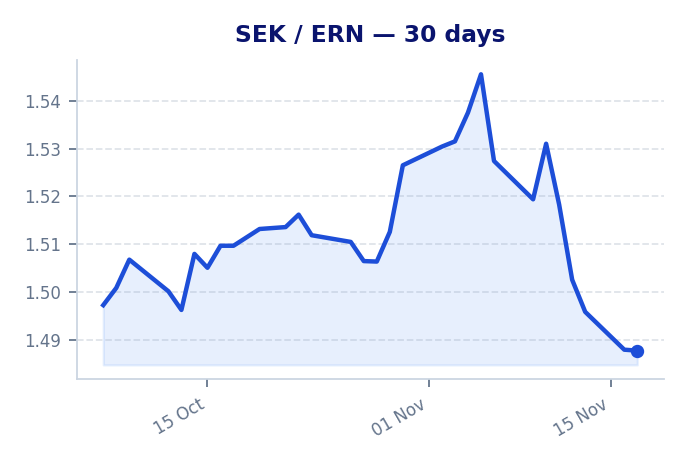
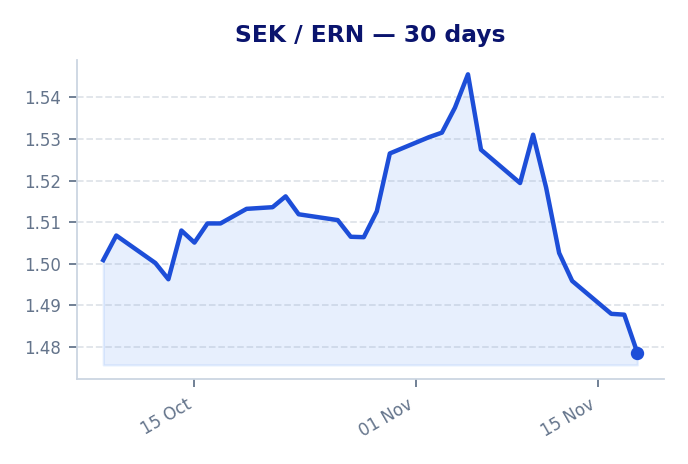
Add files via upload

diff --git a/index.html b/index.html
@@ -939,22 +939,22 @@ tr:hover {
 
             <div class="summary-item">
                 <div class="summary-label">SEK</div>
-                <div class="summary-value">1.4878</div>
+                <div class="summary-value">1.4787</div>
             </div>
 
             <div class="summary-item">
                 <div class="summary-label">NOK</div>
-                <div class="summary-value">1.5556</div>
+                <div class="summary-value">1.5552</div>
             </div>
 
             <div class="summary-item">
                 <div class="summary-label">DKK</div>
-                <div class="summary-value">2.2093</div>
+                <div class="summary-value">2.2039</div>
             </div>
 
             </div>
             <div class="mid-market-meta">
-                <div><span style="font-weight:600" data-i18n="last-updated">Last Updated:</span> 2026-11-17 06:59</div>
+                <div><span style="font-weight:600" data-i18n="last-updated">Last Updated:</span> 2026-11-18 07:05</div>
                 <div style="font-size:0.8rem" data-i18n="mid-market-note">Official mid-market rates collected daily. Actual transfer payout rates shown below.</div>
             </div>
         </div>
@@ -974,11 +974,11 @@ tr:hover {
             <div class="insight-boxes">
                 <div class="bestbox">
                     <span class="icon">🏆</span> 
-                    <span data-i18n="top-pick">Top Pick: <b>Ria</b> delivers <b>14 540 ERN</b></span>
+                    <span data-i18n="top-pick">Top Pick: <b>Ria</b> delivers <b>14 520 ERN</b></span>
                 </div>
                 <div class="gainbox">
                     <span class="icon">💡</span> 
-                    <span data-i18n="smart-move">Smart Move: You get <b>+310 ERN</b> more with <b>Ria</b> vs <b>Juba Express</b></span>
+                    <span data-i18n="smart-move">Smart Move: You get <b>+375 ERN</b> more with <b>Ria</b> vs <b>Juba Express</b></span>
                 </div>
             </div>
             
@@ -1001,47 +1001,47 @@ tr:hover {
 <td class="left">
     <div class="company-name">Ria</div>
 </td>
-<td class="right font-numeric">1.4540</td>
+<td class="right font-numeric">1.4520</td>
 <td class="right font-numeric">0,00</td>
-<td class="right nowrap font-numeric highlight-ern">14 540</td>
+<td class="right nowrap font-numeric highlight-ern">14 520</td>
 <td class="right nowrap font-numeric">-</td>
-<td class="right font-numeric markup-cell">2.27%</td>
+<td class="right font-numeric markup-good">1.81%</td>
 <td class="right font-numeric hide-mobile"><span class="badge best-badge">Best</span></td>
-</tr>
-
-<tr class="">
-<td class="left">
-    <div class="company-name">Remitly</div>
-</td>
-<td class="right font-numeric">1.4485</td>
-<td class="right font-numeric">0,00</td>
-<td class="right nowrap font-numeric highlight-ern">14 484</td>
-<td class="right nowrap font-numeric"><span class="loss-text">-55 ERN</span></td>
-<td class="right font-numeric markup-cell">2.64%</td>
-<td class="right font-numeric hide-mobile"><span class="badge rank-badge">#2</span></td>
 </tr>
 
 <tr class="">
 <td class="left">
     <div class="company-name">Western Union</div>
 </td>
-<td class="right font-numeric">1.4458</td>
+<td class="right font-numeric">1.4442</td>
 <td class="right font-numeric">0,00</td>
-<td class="right nowrap font-numeric highlight-ern">14 458</td>
-<td class="right nowrap font-numeric"><span class="loss-text">-82 ERN</span></td>
-<td class="right font-numeric markup-cell">2.82%</td>
-<td class="right font-numeric hide-mobile"><span class="badge rank-badge">#3</span></td>
+<td class="right nowrap font-numeric highlight-ern">14 442</td>
+<td class="right nowrap font-numeric"><span class="loss-text">-78 ERN</span></td>
+<td class="right font-numeric markup-cell">2.33%</td>
+<td class="right font-numeric hide-mobile"><span class="badge rank-badge">#2</span></td>
 </tr>
 
 <tr class="">
 <td class="left">
     <div class="company-name">Transfer Galaxy</div>
 </td>
-<td class="right font-numeric">1.4458</td>
+<td class="right font-numeric">1.4406</td>
 <td class="right font-numeric">0,00</td>
-<td class="right nowrap font-numeric highlight-ern">14 458</td>
-<td class="right nowrap font-numeric"><span class="loss-text">-82 ERN</span></td>
-<td class="right font-numeric markup-cell">2.82%</td>
+<td class="right nowrap font-numeric highlight-ern">14 406</td>
+<td class="right nowrap font-numeric"><span class="loss-text">-113 ERN</span></td>
+<td class="right font-numeric markup-cell">2.58%</td>
+<td class="right font-numeric hide-mobile"><span class="badge rank-badge">#3</span></td>
+</tr>
+
+<tr class="">
+<td class="left">
+    <div class="company-name">Remitly</div>
+</td>
+<td class="right font-numeric">1.4397</td>
+<td class="right font-numeric">0,00</td>
+<td class="right nowrap font-numeric highlight-ern">14 397</td>
+<td class="right nowrap font-numeric"><span class="loss-text">-123 ERN</span></td>
+<td class="right font-numeric markup-cell">2.64%</td>
 <td class="right font-numeric hide-mobile"><span class="badge rank-badge">#4</span></td>
 </tr>
 
@@ -1049,11 +1049,11 @@ tr:hover {
 <td class="left">
     <div class="company-name">Dahabshiil</div>
 </td>
-<td class="right font-numeric">1.4328</td>
+<td class="right font-numeric">1.4239</td>
 <td class="right font-numeric">0,00</td>
-<td class="right nowrap font-numeric highlight-ern">14 328</td>
-<td class="right nowrap font-numeric"><span class="loss-text">-212 ERN</span></td>
-<td class="right font-numeric markup-cell">3.70%</td>
+<td class="right nowrap font-numeric highlight-ern">14 239</td>
+<td class="right nowrap font-numeric"><span class="loss-text">-281 ERN</span></td>
+<td class="right font-numeric markup-cell">3.71%</td>
 <td class="right font-numeric hide-mobile"><span class="badge rank-badge">#5</span></td>
 </tr>
 
@@ -1061,11 +1061,11 @@ tr:hover {
 <td class="left">
     <div class="company-name">Juba Express</div>
 </td>
-<td class="right font-numeric">1.4230</td>
+<td class="right font-numeric">1.4144</td>
 <td class="right font-numeric">0,00</td>
-<td class="right nowrap font-numeric highlight-ern">14 230</td>
-<td class="right nowrap font-numeric"><span class="loss-text">-310 ERN</span></td>
-<td class="right font-numeric markup-cell">4.36%</td>
+<td class="right nowrap font-numeric highlight-ern">14 144</td>
+<td class="right nowrap font-numeric"><span class="loss-text">-375 ERN</span></td>
+<td class="right font-numeric markup-cell">4.35%</td>
 <td class="right font-numeric hide-mobile"><span class="badge rank-badge">#6</span></td>
 </tr>
 
@@ -1087,11 +1087,11 @@ tr:hover {
             <div class="insight-boxes">
                 <div class="bestbox">
                     <span class="icon">🏆</span> 
-                    <span data-i18n="top-pick">Top Pick: <b>Ria Money Transfer</b> delivers <b>15 250 ERN</b></span>
+                    <span data-i18n="top-pick">Top Pick: <b>Transfer Galaxy</b> delivers <b>15 158 ERN</b></span>
                 </div>
                 <div class="gainbox">
                     <span class="icon">💡</span> 
-                    <span data-i18n="smart-move">Smart Move: You get <b>+738 ERN</b> more with <b>Ria Money Transfer</b> vs <b>Dahabshiil</b></span>
+                    <span data-i18n="smart-move">Smart Move: You get <b>+644 ERN</b> more with <b>Transfer Galaxy</b> vs <b>Dahabshiil</b></span>
                 </div>
             </div>
             
@@ -1112,25 +1112,25 @@ tr:hover {
                         
 <tr class="best-row">
 <td class="left">
-    <div class="company-name">Ria Money Transfer</div>
+    <div class="company-name">Transfer Galaxy</div>
 </td>
-<td class="right font-numeric">1.5250</td>
+<td class="right font-numeric">1.5158</td>
 <td class="right font-numeric">0,00</td>
-<td class="right nowrap font-numeric highlight-ern">15 250</td>
+<td class="right nowrap font-numeric highlight-ern">15 158</td>
 <td class="right nowrap font-numeric">-</td>
-<td class="right font-numeric markup-good">1.97%</td>
+<td class="right font-numeric markup-cell">2.53%</td>
 <td class="right font-numeric hide-mobile"><span class="badge best-badge">Best</span></td>
 </tr>
 
 <tr class="">
 <td class="left">
-    <div class="company-name">Transfer Galaxy</div>
+    <div class="company-name">Ria Money Transfer</div>
 </td>
-<td class="right font-numeric">1.5123</td>
+<td class="right font-numeric">1.5110</td>
 <td class="right font-numeric">0,00</td>
-<td class="right nowrap font-numeric highlight-ern">15 123</td>
-<td class="right nowrap font-numeric"><span class="loss-text">-127 ERN</span></td>
-<td class="right font-numeric markup-cell">2.78%</td>
+<td class="right nowrap font-numeric highlight-ern">15 109</td>
+<td class="right nowrap font-numeric"><span class="loss-text">-48 ERN</span></td>
+<td class="right font-numeric markup-cell">2.84%</td>
 <td class="right font-numeric hide-mobile"><span class="badge rank-badge">#2</span></td>
 </tr>
 
@@ -1138,11 +1138,11 @@ tr:hover {
 <td class="left">
     <div class="company-name">Remitly</div>
 </td>
-<td class="right font-numeric">1.5076</td>
+<td class="right font-numeric">1.5084</td>
 <td class="right font-numeric">0,00</td>
-<td class="right nowrap font-numeric highlight-ern">15 076</td>
-<td class="right nowrap font-numeric"><span class="loss-text">-174 ERN</span></td>
-<td class="right font-numeric markup-cell">3.09%</td>
+<td class="right nowrap font-numeric highlight-ern">15 084</td>
+<td class="right nowrap font-numeric"><span class="loss-text">-74 ERN</span></td>
+<td class="right font-numeric markup-cell">3.01%</td>
 <td class="right font-numeric hide-mobile"><span class="badge rank-badge">#3</span></td>
 </tr>
 
@@ -1153,8 +1153,8 @@ tr:hover {
 <td class="right font-numeric">1.4876</td>
 <td class="right font-numeric">0,00</td>
 <td class="right nowrap font-numeric highlight-ern">14 876</td>
-<td class="right nowrap font-numeric"><span class="loss-text">-374 ERN</span></td>
-<td class="right font-numeric markup-cell">4.37%</td>
+<td class="right nowrap font-numeric"><span class="loss-text">-282 ERN</span></td>
+<td class="right font-numeric markup-cell">4.35%</td>
 <td class="right font-numeric hide-mobile"><span class="badge rank-badge">#4</span></td>
 </tr>
 
@@ -1162,11 +1162,11 @@ tr:hover {
 <td class="left">
     <div class="company-name">Hidmona Money Transfer</div>
 </td>
-<td class="right font-numeric">1.4773</td>
+<td class="right font-numeric">1.4827</td>
 <td class="right font-numeric">0,00</td>
-<td class="right nowrap font-numeric highlight-ern">14 773</td>
-<td class="right nowrap font-numeric"><span class="loss-text">-477 ERN</span></td>
-<td class="right font-numeric markup-cell">5.03%</td>
+<td class="right nowrap font-numeric highlight-ern">14 826</td>
+<td class="right nowrap font-numeric"><span class="loss-text">-331 ERN</span></td>
+<td class="right font-numeric markup-cell">4.66%</td>
 <td class="right font-numeric hide-mobile"><span class="badge rank-badge">#5</span></td>
 </tr>
 
@@ -1174,11 +1174,11 @@ tr:hover {
 <td class="left">
     <div class="company-name">Dahabshiil</div>
 </td>
-<td class="right font-numeric">1.4512</td>
+<td class="right font-numeric">1.4514</td>
 <td class="right font-numeric">0,00</td>
-<td class="right nowrap font-numeric highlight-ern">14 512</td>
-<td class="right nowrap font-numeric"><span class="loss-text">-738 ERN</span></td>
-<td class="right font-numeric markup-cell">6.71%</td>
+<td class="right nowrap font-numeric highlight-ern">14 514</td>
+<td class="right nowrap font-numeric"><span class="loss-text">-644 ERN</span></td>
+<td class="right font-numeric markup-cell">6.67%</td>
 <td class="right font-numeric hide-mobile"><span class="badge rank-badge">#6</span></td>
 </tr>
 
@@ -1200,11 +1200,11 @@ tr:hover {
             <div class="insight-boxes">
                 <div class="bestbox">
                     <span class="icon">🏆</span> 
-                    <span data-i18n="top-pick">Top Pick: <b>Western Union</b> delivers <b>22 060 ERN</b></span>
+                    <span data-i18n="top-pick">Top Pick: <b>Western Union</b> delivers <b>22 069 ERN</b></span>
                 </div>
                 <div class="gainbox">
                     <span class="icon">💡</span> 
-                    <span data-i18n="smart-move">Smart Move: You get <b>+928 ERN</b> more with <b>Western Union</b> vs <b>Juba Express</b></span>
+                    <span data-i18n="smart-move">Smart Move: You get <b>+991 ERN</b> more with <b>Western Union</b> vs <b>Juba Express</b></span>
                 </div>
             </div>
             
@@ -1227,11 +1227,11 @@ tr:hover {
 <td class="left">
     <div class="company-name">Western Union</div>
 </td>
-<td class="right font-numeric">2.2060</td>
+<td class="right font-numeric">2.2069</td>
 <td class="right font-numeric">0,00</td>
-<td class="right nowrap font-numeric highlight-ern">22 060</td>
+<td class="right nowrap font-numeric highlight-ern">22 069</td>
 <td class="right nowrap font-numeric">-</td>
-<td class="right font-numeric markup-good">0.15%</td>
+<td class="right font-numeric markup-good">-0.14%</td>
 <td class="right font-numeric hide-mobile"><span class="badge best-badge">Best</span></td>
 </tr>
 
@@ -1242,8 +1242,8 @@ tr:hover {
 <td class="right font-numeric">2.1700</td>
 <td class="right font-numeric">0,00</td>
 <td class="right nowrap font-numeric highlight-ern">21 700</td>
-<td class="right nowrap font-numeric"><span class="loss-text">-360 ERN</span></td>
-<td class="right font-numeric markup-good">1.78%</td>
+<td class="right nowrap font-numeric"><span class="loss-text">-369 ERN</span></td>
+<td class="right font-numeric markup-good">1.54%</td>
 <td class="right font-numeric hide-mobile"><span class="badge rank-badge">#2</span></td>
 </tr>
 
@@ -1251,11 +1251,11 @@ tr:hover {
 <td class="left">
     <div class="company-name">Hidmona Money Transfer</div>
 </td>
-<td class="right font-numeric">2.1650</td>
+<td class="right font-numeric">2.1659</td>
 <td class="right font-numeric">0,00</td>
-<td class="right nowrap font-numeric highlight-ern">21 650</td>
+<td class="right nowrap font-numeric highlight-ern">21 659</td>
 <td class="right nowrap font-numeric"><span class="loss-text">-410 ERN</span></td>
-<td class="right font-numeric markup-cell">2.01%</td>
+<td class="right font-numeric markup-good">1.72%</td>
 <td class="right font-numeric hide-mobile"><span class="badge rank-badge">#3</span></td>
 </tr>
 
@@ -1263,11 +1263,11 @@ tr:hover {
 <td class="left">
     <div class="company-name">Remitly</div>
 </td>
-<td class="right font-numeric">2.1543</td>
+<td class="right font-numeric">2.1484</td>
 <td class="right font-numeric">0,00</td>
-<td class="right nowrap font-numeric highlight-ern">21 543</td>
-<td class="right nowrap font-numeric"><span class="loss-text">-517 ERN</span></td>
-<td class="right font-numeric markup-cell">2.49%</td>
+<td class="right nowrap font-numeric highlight-ern">21 484</td>
+<td class="right nowrap font-numeric"><span class="loss-text">-585 ERN</span></td>
+<td class="right font-numeric markup-cell">2.52%</td>
 <td class="right font-numeric hide-mobile"><span class="badge rank-badge">#4</span></td>
 </tr>
 
@@ -1275,11 +1275,11 @@ tr:hover {
 <td class="left">
     <div class="company-name">Transfer Galaxy</div>
 </td>
-<td class="right font-numeric">2.1493</td>
+<td class="right font-numeric">2.1458</td>
 <td class="right font-numeric">0,00</td>
-<td class="right nowrap font-numeric highlight-ern">21 493</td>
-<td class="right nowrap font-numeric"><span class="loss-text">-566 ERN</span></td>
-<td class="right font-numeric markup-cell">2.72%</td>
+<td class="right nowrap font-numeric highlight-ern">21 458</td>
+<td class="right nowrap font-numeric"><span class="loss-text">-611 ERN</span></td>
+<td class="right font-numeric markup-cell">2.64%</td>
 <td class="right font-numeric hide-mobile"><span class="badge rank-badge">#5</span></td>
 </tr>
 
@@ -1287,11 +1287,11 @@ tr:hover {
 <td class="left">
     <div class="company-name">Juba Express</div>
 </td>
-<td class="right font-numeric">2.1131</td>
+<td class="right font-numeric">2.1078</td>
 <td class="right font-numeric">0,00</td>
-<td class="right nowrap font-numeric highlight-ern">21 131</td>
-<td class="right nowrap font-numeric"><span class="loss-text">-928 ERN</span></td>
-<td class="right font-numeric markup-cell">4.35%</td>
+<td class="right nowrap font-numeric highlight-ern">21 078</td>
+<td class="right nowrap font-numeric"><span class="loss-text">-991 ERN</span></td>
+<td class="right font-numeric markup-cell">4.36%</td>
 <td class="right font-numeric hide-mobile"><span class="badge rank-badge">#6</span></td>
 </tr>
 
@@ -1309,7 +1309,7 @@ tr:hover {
             <div class="chart-card">
                 <div class="chart-header">
                     <img src="https://flagcdn.com/w40/se.png" class="flag-sm" alt="Sweden" width="24" height="16" loading="lazy" decoding="async"> <span>SEK / ERN</span>
-                    <span class="trend-badge down">▼ 0.6%</span>
+                    <span class="trend-badge down">▼ 1.5%</span>
                 </div>
                 <img src="sek_chart.png" class="chart-img" alt="SEK to ERN exchange-rate trend over the last 30 days" loading="lazy" decoding="async" width="688" height="464">
             </div>
@@ -1389,7 +1389,7 @@ tr:hover {
         "calculator-note": "እቲ ዝበለጸ ክፍሊት ንዝኣተኻዮ መጠን ብተመሳሳሊ ሕሳብ ዋጋን ክፍሊትን ከም ሰንጠረዥ ይደጋገም።"
     };
 
-    const calculatorData = {"SEK": [{"provider": "Ria", "rate": 1.454, "total_fee": 0.0}, {"provider": "Remitly", "rate": 1.4485, "total_fee": 0.0}, {"provider": "Western Union", "rate": 1.4458, "total_fee": 0.0}, {"provider": "Transfer Galaxy", "rate": 1.4458, "total_fee": 0.0}, {"provider": "Dahabshiil", "rate": 1.4328, "total_fee": 0.0}, {"provider": "Juba Express", "rate": 1.423, "total_fee": 0.0}], "NOK": [{"provider": "Ria Money Transfer", "rate": 1.525, "total_fee": 0.0}, {"provider": "Transfer Galaxy", "rate": 1.5123, "total_fee": 0.0}, {"provider": "Remitly", "rate": 1.5076, "total_fee": 0.0}, {"provider": "Juba Express", "rate": 1.4876, "total_fee": 0.0}, {"provider": "Hidmona Money Transfer", "rate": 1.4773, "total_fee": 0.0}, {"provider": "Dahabshiil", "rate": 1.4512, "total_fee": 0.0}], "DKK": [{"provider": "Western Union", "rate": 2.206, "total_fee": 0.0}, {"provider": "Ria Money Transfer", "rate": 2.17, "total_fee": 0.0}, {"provider": "Hidmona Money Transfer", "rate": 2.165, "total_fee": 0.0}, {"provider": "Remitly", "rate": 2.1543, "total_fee": 0.0}, {"provider": "Transfer Galaxy", "rate": 2.1493, "total_fee": 0.0}, {"provider": "Juba Express", "rate": 2.1131, "total_fee": 0.0}]};
+    const calculatorData = {"SEK": [{"provider": "Ria", "rate": 1.452, "total_fee": 0.0}, {"provider": "Western Union", "rate": 1.4442, "total_fee": 0.0}, {"provider": "Transfer Galaxy", "rate": 1.4406, "total_fee": 0.0}, {"provider": "Remitly", "rate": 1.4397, "total_fee": 0.0}, {"provider": "Dahabshiil", "rate": 1.4239, "total_fee": 0.0}, {"provider": "Juba Express", "rate": 1.4144, "total_fee": 0.0}], "NOK": [{"provider": "Transfer Galaxy", "rate": 1.5158, "total_fee": 0.0}, {"provider": "Ria Money Transfer", "rate": 1.511, "total_fee": 0.0}, {"provider": "Remitly", "rate": 1.5084, "total_fee": 0.0}, {"provider": "Juba Express", "rate": 1.4876, "total_fee": 0.0}, {"provider": "Hidmona Money Transfer", "rate": 1.4827, "total_fee": 0.0}, {"provider": "Dahabshiil", "rate": 1.4514, "total_fee": 0.0}], "DKK": [{"provider": "Western Union", "rate": 2.2069, "total_fee": 0.0}, {"provider": "Ria Money Transfer", "rate": 2.17, "total_fee": 0.0}, {"provider": "Hidmona Money Transfer", "rate": 2.1659, "total_fee": 0.0}, {"provider": "Remitly", "rate": 2.1484, "total_fee": 0.0}, {"provider": "Transfer Galaxy", "rate": 2.1458, "total_fee": 0.0}, {"provider": "Juba Express", "rate": 2.1078, "total_fee": 0.0}]};
     const labels = [...document.querySelectorAll('[data-i18n]')];
     const english = new Map(labels.map(el => [el, el.innerHTML]));
 
